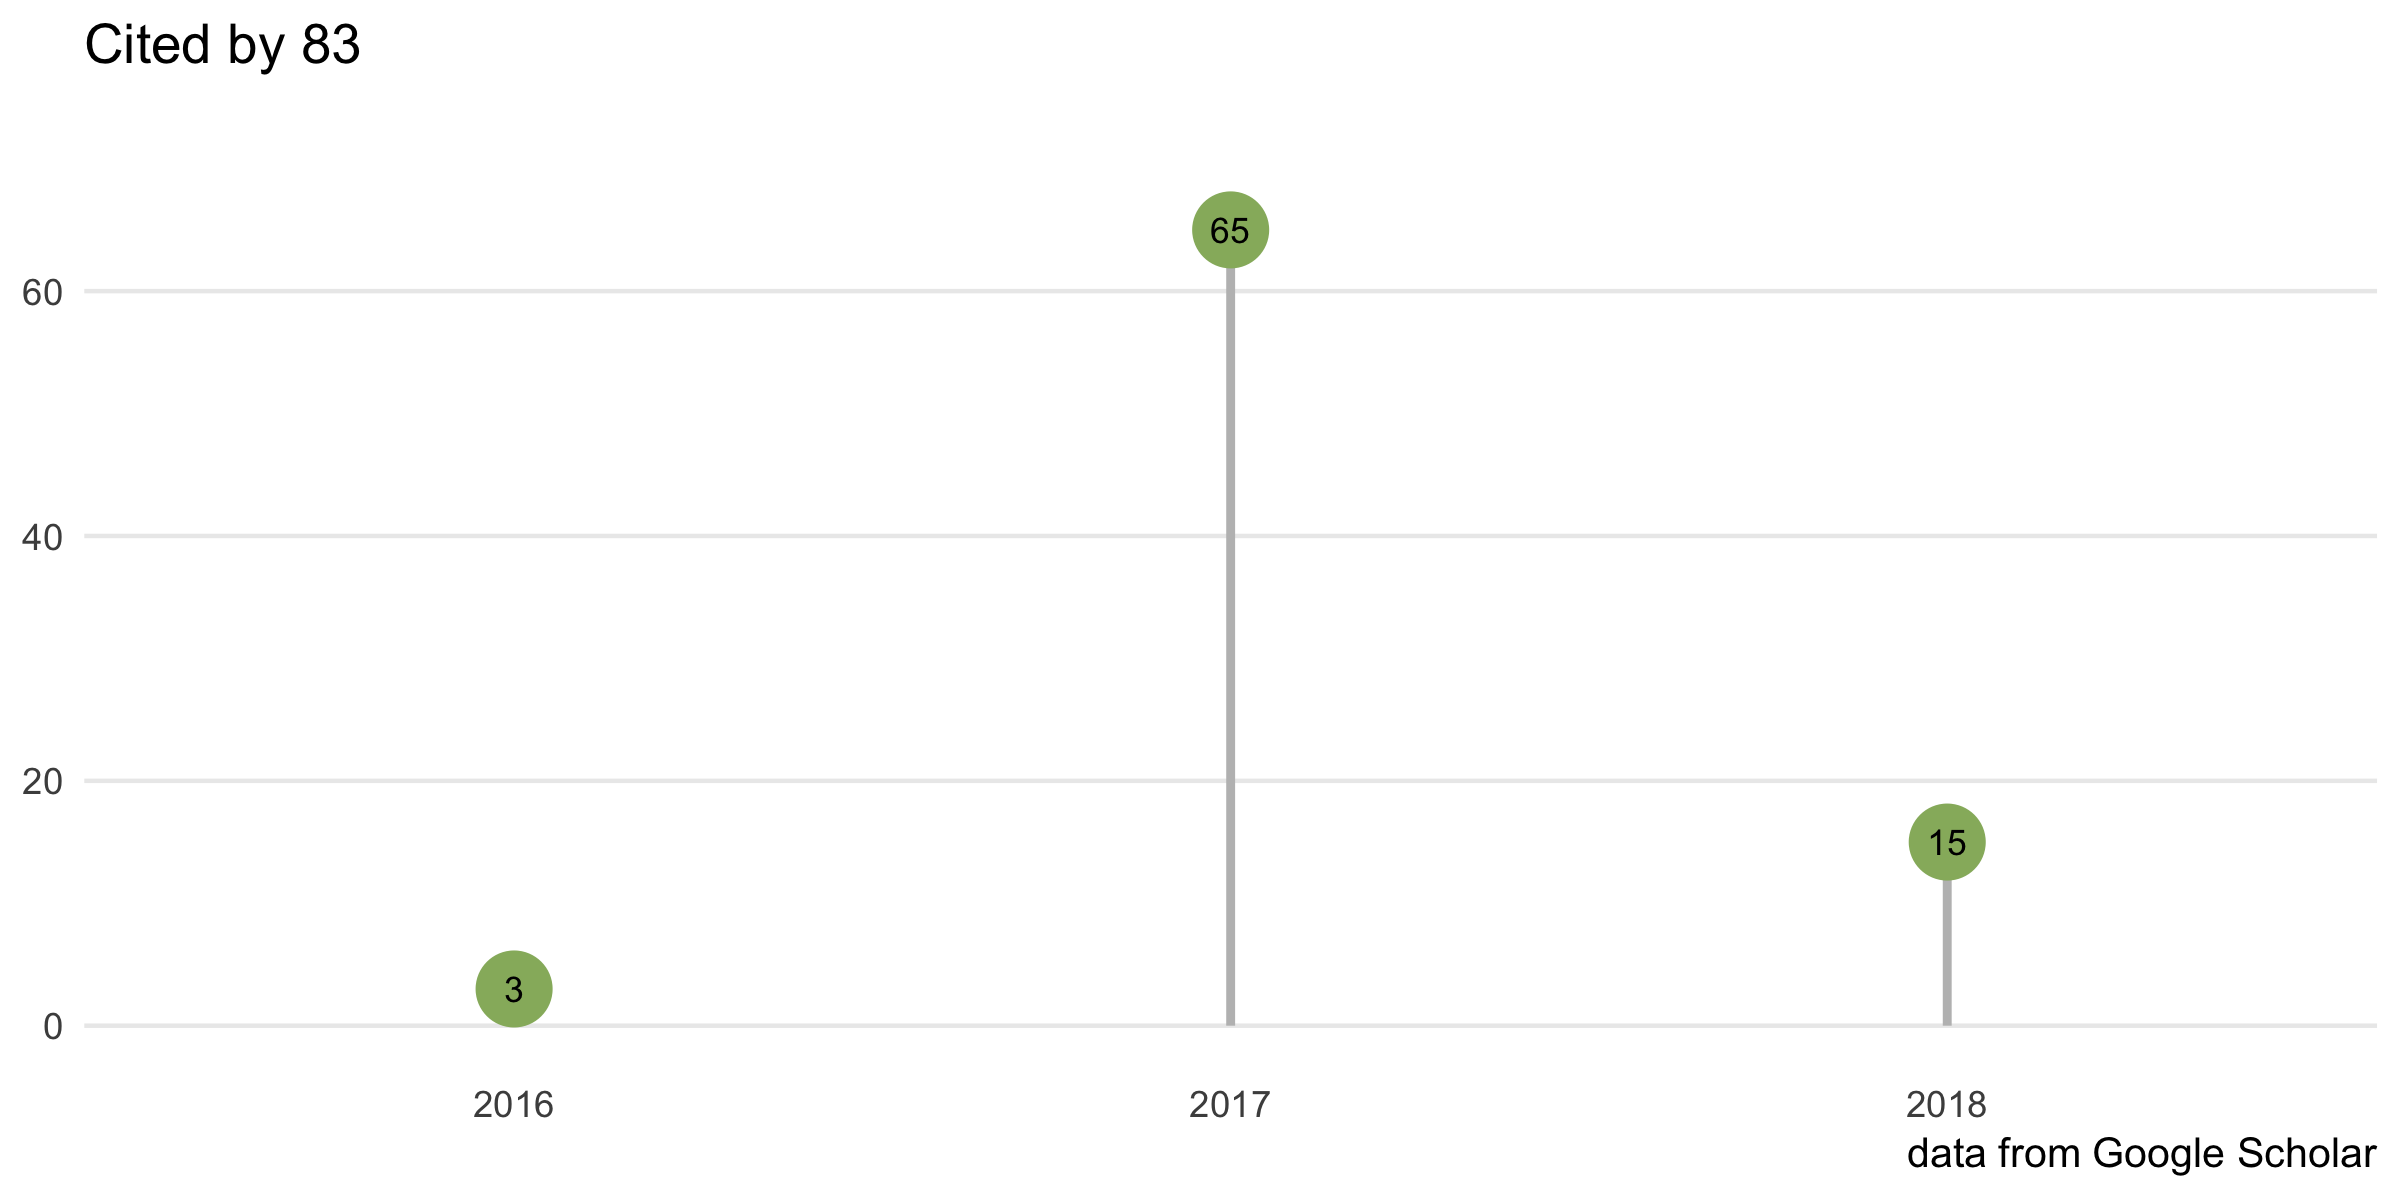
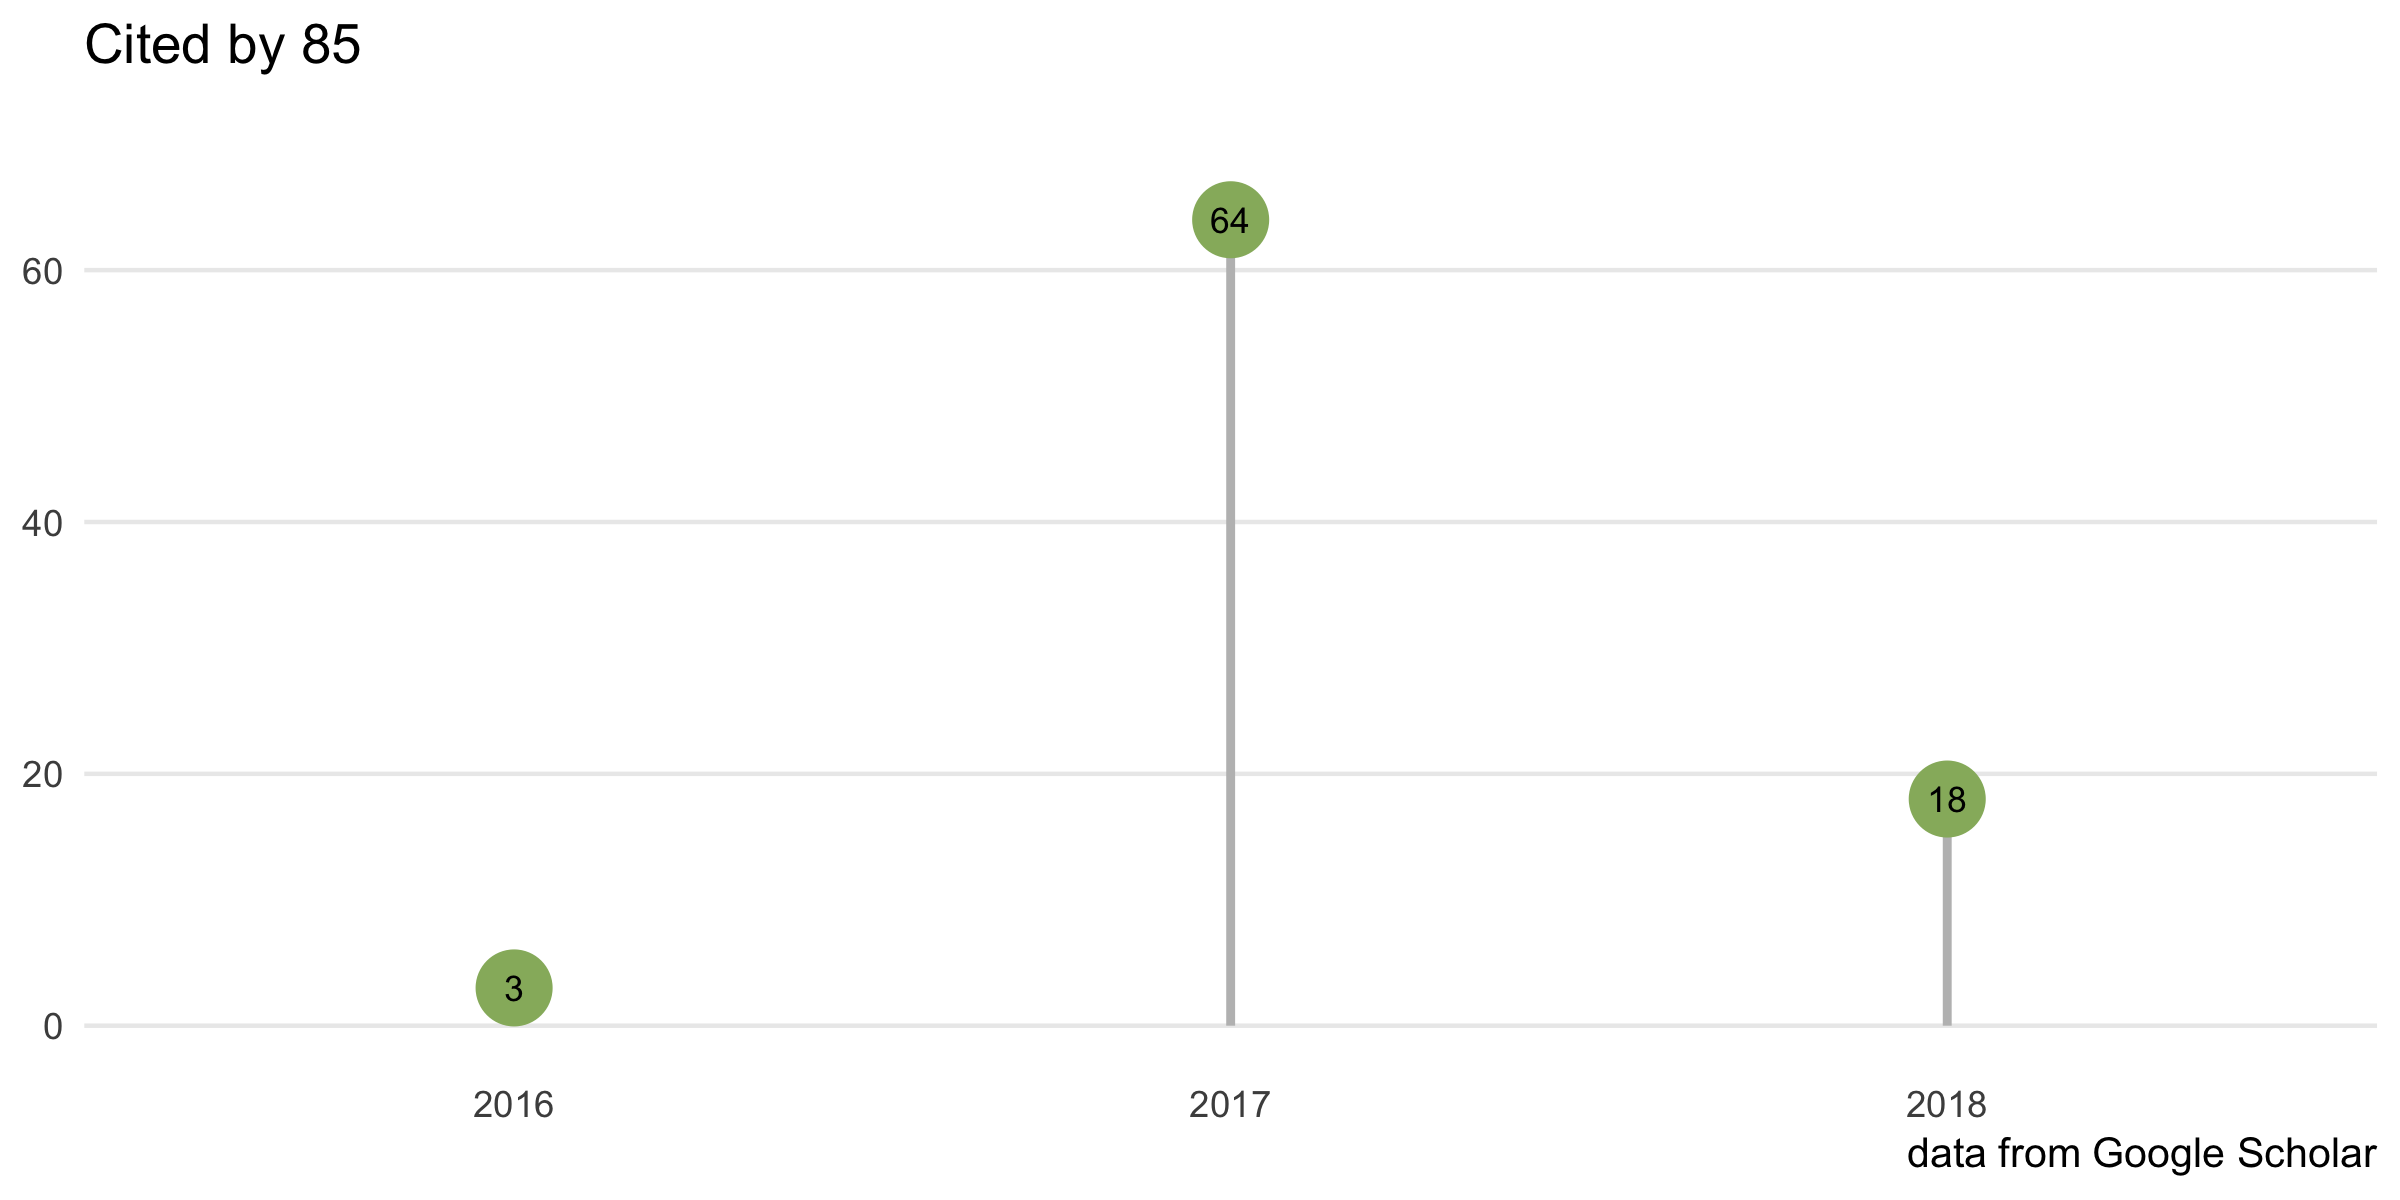
new citations

diff --git a/site_src/content/index.html b/site_src/content/index.html
@@ -9,7 +9,7 @@ weight: 1
 
 <p><link rel="stylesheet" href="https://guangchuangyu.github.io/css/font-awesome.min.css"> <link rel="stylesheet" href="https://guangchuangyu.github.io/css/academicons.min.css"></p>
 <p><img src="https://raw.githubusercontent.com/Bioconductor/BiocStickers/master/ggtree/ggtree.png" height="200" align="right" /></p>
-<p><a href="https://bioconductor.org/packages/ggtree"><img src="https://img.shields.io/badge/release%20version-1.10.4-blue.svg?style=flat" alt="releaseVersion" /></a> <a href="https://github.com/guangchuangyu/ggtree"><img src="https://img.shields.io/badge/devel%20version-1.11.5-blue.svg?style=flat" alt="develVersion" /></a> <a href="https://bioconductor.org/packages/stats/bioc/ggtree"><img src="https://img.shields.io/badge/downloads-24104/total-blue.svg?style=flat" alt="total" /></a> <a href="https://bioconductor.org/packages/stats/bioc/ggtree"><img src="https://img.shields.io/badge/downloads-1222/month-blue.svg?style=flat" alt="month" /></a></p>
+<p><a href="https://bioconductor.org/packages/ggtree"><img src="https://img.shields.io/badge/release%20version-1.10.4-blue.svg?style=flat" alt="releaseVersion" /></a> <a href="https://github.com/guangchuangyu/ggtree"><img src="https://img.shields.io/badge/devel%20version-1.11.5-blue.svg?style=flat" alt="develVersion" /></a> <a href="https://bioconductor.org/packages/stats/bioc/ggtree"><img src="https://img.shields.io/badge/downloads-24849/total-blue.svg?style=flat" alt="total" /></a> <a href="https://bioconductor.org/packages/stats/bioc/ggtree"><img src="https://img.shields.io/badge/downloads-1222/month-blue.svg?style=flat" alt="month" /></a></p>
 <p>The <code>ggtree</code> package extending the <em>ggplot2</em> package. It based on grammar of graphics and takes all the good parts of <em>ggplot2</em>. <em>ggtree</em> is designed for not only viewing phylogenetic tree but also displaying annotation data on the tree. <em>ggtree</em> is released within the <a href="https://bioconductor.org/packages/ggtree/">Bioconductor</a> project and the source code is hosted on <a href="https://github.com/GuangchuangYu/ggtree"><i class="fa fa-github fa-lg"></i> GitHub</a>.</p>
 <div id="authors" class="section level2">
 <h2><i class="fa fa-user"></i> Authors</h2>
@@ -18,7 +18,7 @@ weight: 1
 <div id="citation" class="section level2">
 <h2><i class="fa fa-book"></i> Citation</h2>
 <p>Please cite the following article when using <code>ggtree</code>:</p>
-<p><a href="http://dx.doi.org/10.1111/2041-210X.12628"><img src="https://img.shields.io/badge/doi-10.1111/2041--210X.12628-blue.svg?style=flat" alt="doi" /></a> <a href="https://www.altmetric.com/details/10533079"><img src="https://img.shields.io/badge/Altmetric-326-blue.svg?style=flat" alt="Altmetric" /></a> <a href="https://scholar.google.com.hk/scholar?oi=bibs&amp;hl=en&amp;cites=7268358477862164627"><img src="https://img.shields.io/badge/cited%20by-83-blue.svg?style=flat" alt="citation" /></a></p>
+<p><a href="http://dx.doi.org/10.1111/2041-210X.12628"><img src="https://img.shields.io/badge/doi-10.1111/2041--210X.12628-blue.svg?style=flat" alt="doi" /></a> <a href="https://www.altmetric.com/details/10533079"><img src="https://img.shields.io/badge/Altmetric-326-blue.svg?style=flat" alt="Altmetric" /></a> <a href="https://scholar.google.com.hk/scholar?oi=bibs&amp;hl=en&amp;cites=7268358477862164627"><img src="https://img.shields.io/badge/cited%20by-85-blue.svg?style=flat" alt="citation" /></a></p>
 <p><strong>G Yu</strong>, DK Smith, H Zhu, Y Guan, TTY Lam<sup>*</sup>. ggtree: an R package for visualization and annotation of phylogenetic trees with their covariates and other associated data. <strong><em>Methods in Ecology and Evolution</em></strong>. 2017, 8(1):28-36.</p>
 </div>
 <div id="featured-articles" class="section level2">

diff --git a/docs/index.html b/docs/index.html
@@ -346,7 +346,7 @@
 
 				<p><link rel="stylesheet" href="https://guangchuangyu.github.io/css/font-awesome.min.css"> <link rel="stylesheet" href="https://guangchuangyu.github.io/css/academicons.min.css"></p>
 <p><img src="https://raw.githubusercontent.com/Bioconductor/BiocStickers/master/ggtree/ggtree.png" height="200" align="right" /></p>
-<p><a href="https://bioconductor.org/packages/ggtree"><img src="https://img.shields.io/badge/release%20version-1.10.4-blue.svg?style=flat" alt="releaseVersion" /></a> <a href="https://github.com/guangchuangyu/ggtree"><img src="https://img.shields.io/badge/devel%20version-1.11.5-blue.svg?style=flat" alt="develVersion" /></a> <a href="https://bioconductor.org/packages/stats/bioc/ggtree"><img src="https://img.shields.io/badge/downloads-24104/total-blue.svg?style=flat" alt="total" /></a> <a href="https://bioconductor.org/packages/stats/bioc/ggtree"><img src="https://img.shields.io/badge/downloads-1222/month-blue.svg?style=flat" alt="month" /></a></p>
+<p><a href="https://bioconductor.org/packages/ggtree"><img src="https://img.shields.io/badge/release%20version-1.10.4-blue.svg?style=flat" alt="releaseVersion" /></a> <a href="https://github.com/guangchuangyu/ggtree"><img src="https://img.shields.io/badge/devel%20version-1.11.5-blue.svg?style=flat" alt="develVersion" /></a> <a href="https://bioconductor.org/packages/stats/bioc/ggtree"><img src="https://img.shields.io/badge/downloads-24849/total-blue.svg?style=flat" alt="total" /></a> <a href="https://bioconductor.org/packages/stats/bioc/ggtree"><img src="https://img.shields.io/badge/downloads-1222/month-blue.svg?style=flat" alt="month" /></a></p>
 <p>The <code>ggtree</code> package extending the <em>ggplot2</em> package. It based on grammar of graphics and takes all the good parts of <em>ggplot2</em>. <em>ggtree</em> is designed for not only viewing phylogenetic tree but also displaying annotation data on the tree. <em>ggtree</em> is released within the <a href="https://bioconductor.org/packages/ggtree/">Bioconductor</a> project and the source code is hosted on <a href="https://github.com/GuangchuangYu/ggtree"><i class="fa fa-github fa-lg"></i> GitHub</a>.</p>
 <div id="authors" class="section level2">
 <h2><i class="fa fa-user"></i> Authors</h2>
@@ -355,7 +355,7 @@
 <div id="citation" class="section level2">
 <h2><i class="fa fa-book"></i> Citation</h2>
 <p>Please cite the following article when using <code>ggtree</code>:</p>
-<p><a href="http://dx.doi.org/10.1111/2041-210X.12628"><img src="https://img.shields.io/badge/doi-10.1111/2041--210X.12628-blue.svg?style=flat" alt="doi" /></a> <a href="https://www.altmetric.com/details/10533079"><img src="https://img.shields.io/badge/Altmetric-326-blue.svg?style=flat" alt="Altmetric" /></a> <a href="https://scholar.google.com.hk/scholar?oi=bibs&amp;hl=en&amp;cites=7268358477862164627"><img src="https://img.shields.io/badge/cited%20by-83-blue.svg?style=flat" alt="citation" /></a></p>
+<p><a href="http://dx.doi.org/10.1111/2041-210X.12628"><img src="https://img.shields.io/badge/doi-10.1111/2041--210X.12628-blue.svg?style=flat" alt="doi" /></a> <a href="https://www.altmetric.com/details/10533079"><img src="https://img.shields.io/badge/Altmetric-326-blue.svg?style=flat" alt="Altmetric" /></a> <a href="https://scholar.google.com.hk/scholar?oi=bibs&amp;hl=en&amp;cites=7268358477862164627"><img src="https://img.shields.io/badge/cited%20by-85-blue.svg?style=flat" alt="citation" /></a></p>
 <p><strong>G Yu</strong>, DK Smith, H Zhu, Y Guan, TTY Lam<sup>*</sup>. ggtree: an R package for visualization and annotation of phylogenetic trees with their covariates and other associated data. <strong><em>Methods in Ecology and Evolution</em></strong>. 2017, 8(1):28-36.</p>
 </div>
 <div id="featured-articles" class="section level2">

diff --git a/site_src/content/featured-articles/index.html b/site_src/content/featured-articles/index.html
@@ -11,12 +11,13 @@ weight: 30
 <p><img src="../images/citation.png" width="880"/></p>
 <div id="section" class="section level2">
 <h2><i class="fa fa-calendar"></i> 2018</h2>
-<p><a href="http://dx.doi.org/10.1073/pnas.1701447115">Molecular epidemiology reveals the role of war in the spread of HIV in Ukraine</a>. <strong><em>PNAS</em></strong>, 2018.</p>
+<p><a href="https://www.nature.com/articles/s41467-018-02967-w">Amphibian chytridiomycosis outbreak dynamics are linked with host skin bacterial community structure</a>. <strong><em>Nature Communications</em></strong>, 2018, 9:693.</p>
+<p><a href="http://dx.doi.org/10.1073/pnas.1701447115">Molecular epidemiology reveals the role of war in the spread of HIV in Ukraine</a>. <strong><em>PNAS</em></strong>, 2018, 115(5):1051-1056.</p>
 </div>
 <div id="section-1" class="section level2">
 <h2><i class="fa fa-calendar"></i> 2017</h2>
 <p><a href="http://science.sciencemag.org/content/358/6364/789.full">Integrated view of <em>Vibrio cholerae</em> in the Americas</a>. <strong><em>Science</em></strong>, 2017, 358(6364):789-793.</p>
-<p><a href="http://dx.doi.org/10.1073/pnas.1617959114">Phylogenetic analysis of the human antibody repertoire reveals quantitative signatures of immune senescence and aging</a>. <strong><em>PNAS</em></strong>, 2017, 114(5):1105-111-.</p>
+<p><a href="http://dx.doi.org/10.1073/pnas.1617959114">Phylogenetic analysis of the human antibody repertoire reveals quantitative signatures of immune senescence and aging</a>. <strong><em>PNAS</em></strong>, 2017, 114(5):1105-1110.</p>
 <p><a href="https://www.ncbi.nlm.nih.gov/pmc/articles/PMC5376617/">Horses in Denmark Are a Reservoir of Diverse Clones of Methicillin-Resistant and -Susceptible Staphylococcus aureus</a>. <strong><em>Frontiers in Microbiology</em></strong>, 2017, 8:543</p>
 <p><a href="https://microbiomejournal.biomedcentral.com/articles/10.1186/s40168-017-0232-3">Gut metagenomes of type 2 diabetic patients have characteristic single-nucleotide polymorphism distribution in <em>Bacteroides coprocola</em></a>. <strong><em>Microbiome</em></strong>, 2017, 5:15</p>
 </div>

diff --git a/docs/featured-articles/index.html b/docs/featured-articles/index.html
@@ -348,12 +348,13 @@
 <p><img src="../images/citation.png" width="880"/></p>
 <div id="section" class="section level2">
 <h2><i class="fa fa-calendar"></i> 2018</h2>
-<p><a href="http://dx.doi.org/10.1073/pnas.1701447115">Molecular epidemiology reveals the role of war in the spread of HIV in Ukraine</a>. <strong><em>PNAS</em></strong>, 2018.</p>
+<p><a href="https://www.nature.com/articles/s41467-018-02967-w">Amphibian chytridiomycosis outbreak dynamics are linked with host skin bacterial community structure</a>. <strong><em>Nature Communications</em></strong>, 2018, 9:693.</p>
+<p><a href="http://dx.doi.org/10.1073/pnas.1701447115">Molecular epidemiology reveals the role of war in the spread of HIV in Ukraine</a>. <strong><em>PNAS</em></strong>, 2018, 115(5):1051-1056.</p>
 </div>
 <div id="section-1" class="section level2">
 <h2><i class="fa fa-calendar"></i> 2017</h2>
 <p><a href="http://science.sciencemag.org/content/358/6364/789.full">Integrated view of <em>Vibrio cholerae</em> in the Americas</a>. <strong><em>Science</em></strong>, 2017, 358(6364):789-793.</p>
-<p><a href="http://dx.doi.org/10.1073/pnas.1617959114">Phylogenetic analysis of the human antibody repertoire reveals quantitative signatures of immune senescence and aging</a>. <strong><em>PNAS</em></strong>, 2017, 114(5):1105-111-.</p>
+<p><a href="http://dx.doi.org/10.1073/pnas.1617959114">Phylogenetic analysis of the human antibody repertoire reveals quantitative signatures of immune senescence and aging</a>. <strong><em>PNAS</em></strong>, 2017, 114(5):1105-1110.</p>
 <p><a href="https://www.ncbi.nlm.nih.gov/pmc/articles/PMC5376617/">Horses in Denmark Are a Reservoir of Diverse Clones of Methicillin-Resistant and -Susceptible Staphylococcus aureus</a>. <strong><em>Frontiers in Microbiology</em></strong>, 2017, 8:543</p>
 <p><a href="https://microbiomejournal.biomedcentral.com/articles/10.1186/s40168-017-0232-3">Gut metagenomes of type 2 diabetic patients have characteristic single-nucleotide polymorphism distribution in <em>Bacteroides coprocola</em></a>. <strong><em>Microbiome</em></strong>, 2017, 5:15</p>
 </div>

diff --git a/README.md b/README.md
@@ -6,7 +6,7 @@ ggtree: an R package for visualization and annotation of phylogenetic trees with
 
 [![releaseVersion](https://img.shields.io/badge/release%20version-1.10.4-green.svg?style=flat)](https://bioconductor.org/packages/ggtree) [![develVersion](https://img.shields.io/badge/devel%20version-1.11.5-green.svg?style=flat)](https://github.com/guangchuangyu/ggtree) [![Bioc](http://www.bioconductor.org/shields/years-in-bioc/ggtree.svg)](https://www.bioconductor.org/packages/devel/bioc/html/ggtree.html#since) [![Awesome](https://cdn.rawgit.com/sindresorhus/awesome/d7305f38d29fed78fa85652e3a63e154dd8e8829/media/badge.svg)](https://awesome-r.com/#awesome-r-graphic-displays) [![Say Thanks!](https://img.shields.io/badge/Say%20Thanks-!-1EAEDB.svg)](https://saythanks.io/to/GuangchuangYu)
 
-[![platform](http://www.bioconductor.org/shields/availability/devel/ggtree.svg)](https://www.bioconductor.org/packages/devel/bioc/html/ggtree.html#archives) [![Project Status: Active - The project has reached a stable, usable state and is being actively developed.](http://www.repostatus.org/badges/latest/active.svg)](http://www.repostatus.org/#active) [![codecov](https://codecov.io/gh/GuangchuangYu/ggtree/branch/master/graph/badge.svg)](https://codecov.io/gh/GuangchuangYu/ggtree) [![Last-changedate](https://img.shields.io/badge/last%20change-2018--02--06-green.svg)](https://github.com/GuangchuangYu/ggtree/commits/master) [![GitHub forks](https://img.shields.io/github/forks/GuangchuangYu/ggtree.svg)](https://github.com/GuangchuangYu/ggtree/network) [![GitHub stars](https://img.shields.io/github/stars/GuangchuangYu/ggtree.svg)](https://github.com/GuangchuangYu/ggtree/stargazers)
+[![platform](http://www.bioconductor.org/shields/availability/devel/ggtree.svg)](https://www.bioconductor.org/packages/devel/bioc/html/ggtree.html#archives) [![Project Status: Active - The project has reached a stable, usable state and is being actively developed.](http://www.repostatus.org/badges/latest/active.svg)](http://www.repostatus.org/#active) [![codecov](https://codecov.io/gh/GuangchuangYu/ggtree/branch/master/graph/badge.svg)](https://codecov.io/gh/GuangchuangYu/ggtree) [![Last-changedate](https://img.shields.io/badge/last%20change-2018--02--23-green.svg)](https://github.com/GuangchuangYu/ggtree/commits/master) [![GitHub forks](https://img.shields.io/github/forks/GuangchuangYu/ggtree.svg)](https://github.com/GuangchuangYu/ggtree/network) [![GitHub stars](https://img.shields.io/github/stars/GuangchuangYu/ggtree.svg)](https://github.com/GuangchuangYu/ggtree/stargazers)
 
 The `ggtree` package extending the `ggplot2` package. It based on grammar of graphics and takes all the good parts of `ggplot2`. `ggtree` is designed for not only viewing phylogenetic tree but also displaying annotation data on the tree.
 
@@ -25,7 +25,7 @@ Please cite the following article when using `ggtree`:
 
 **G Yu**, DK Smith, H Zhu, Y Guan, TTY Lam<sup>\*</sup>. ggtree: an R package for visualization and annotation of phylogenetic trees with their covariates and other associated data. ***Methods in Ecology and Evolution***. 2017, 8(1):28-36.
 
-[![doi](https://img.shields.io/badge/doi-10.1111/2041--210X.12628-green.svg?style=flat)](http://dx.doi.org/10.1111/2041-210X.12628) [![Altmetric](https://img.shields.io/badge/Altmetric-326-green.svg?style=flat)](https://www.altmetric.com/details/10533079) [![citation](https://img.shields.io/badge/cited%20by-83-green.svg?style=flat)](https://scholar.google.com.hk/scholar?oi=bibs&hl=en&cites=7268358477862164627)
+[![doi](https://img.shields.io/badge/doi-10.1111/2041--210X.12628-green.svg?style=flat)](http://dx.doi.org/10.1111/2041-210X.12628) [![Altmetric](https://img.shields.io/badge/Altmetric-326-green.svg?style=flat)](https://www.altmetric.com/details/10533079) [![citation](https://img.shields.io/badge/cited%20by-85-green.svg?style=flat)](https://scholar.google.com.hk/scholar?oi=bibs&hl=en&cites=7268358477862164627)
 
 ------------------------------------------------------------------------
 
@@ -35,6 +35,6 @@ Please cite the following article when using `ggtree`:
 
 ### Download stats
 
-[![download](http://www.bioconductor.org/shields/downloads/ggtree.svg)](https://bioconductor.org/packages/stats/bioc/ggtree) [![total](https://img.shields.io/badge/downloads-24104/total-blue.svg?style=flat)](https://bioconductor.org/packages/stats/bioc/ggtree) [![month](https://img.shields.io/badge/downloads-1222/month-blue.svg?style=flat)](https://bioconductor.org/packages/stats/bioc/ggtree)
+[![download](http://www.bioconductor.org/shields/downloads/ggtree.svg)](https://bioconductor.org/packages/stats/bioc/ggtree) [![total](https://img.shields.io/badge/downloads-24849/total-blue.svg?style=flat)](https://bioconductor.org/packages/stats/bioc/ggtree) [![month](https://img.shields.io/badge/downloads-1222/month-blue.svg?style=flat)](https://bioconductor.org/packages/stats/bioc/ggtree)
 
 <img src="docs/images/dlstats.png" width="890"/>
